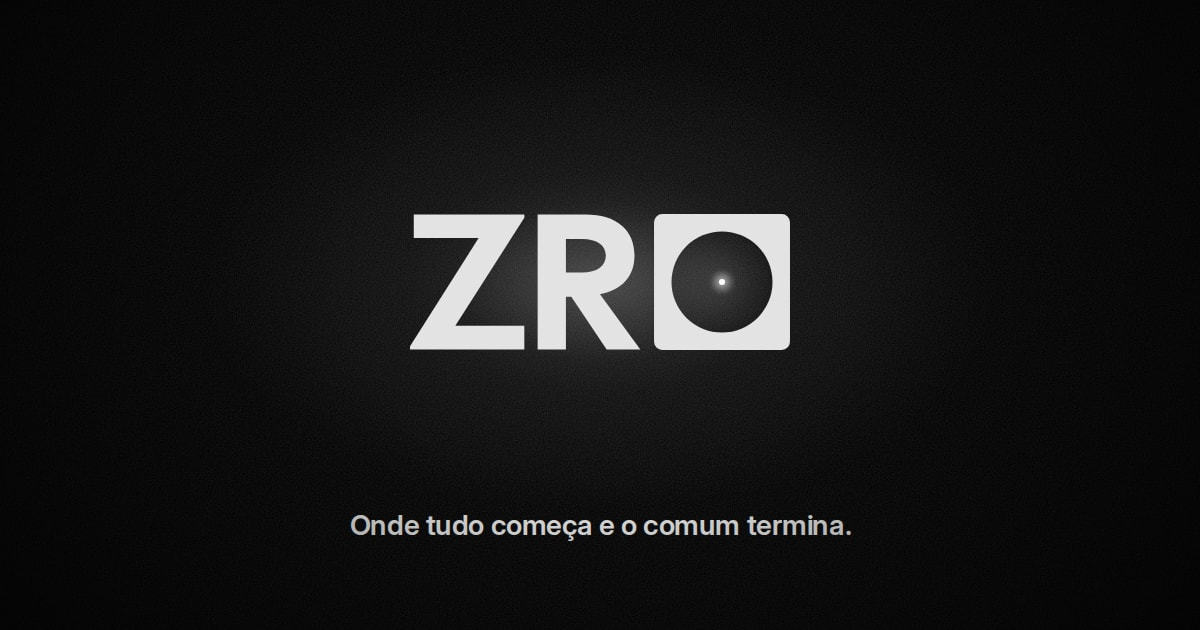
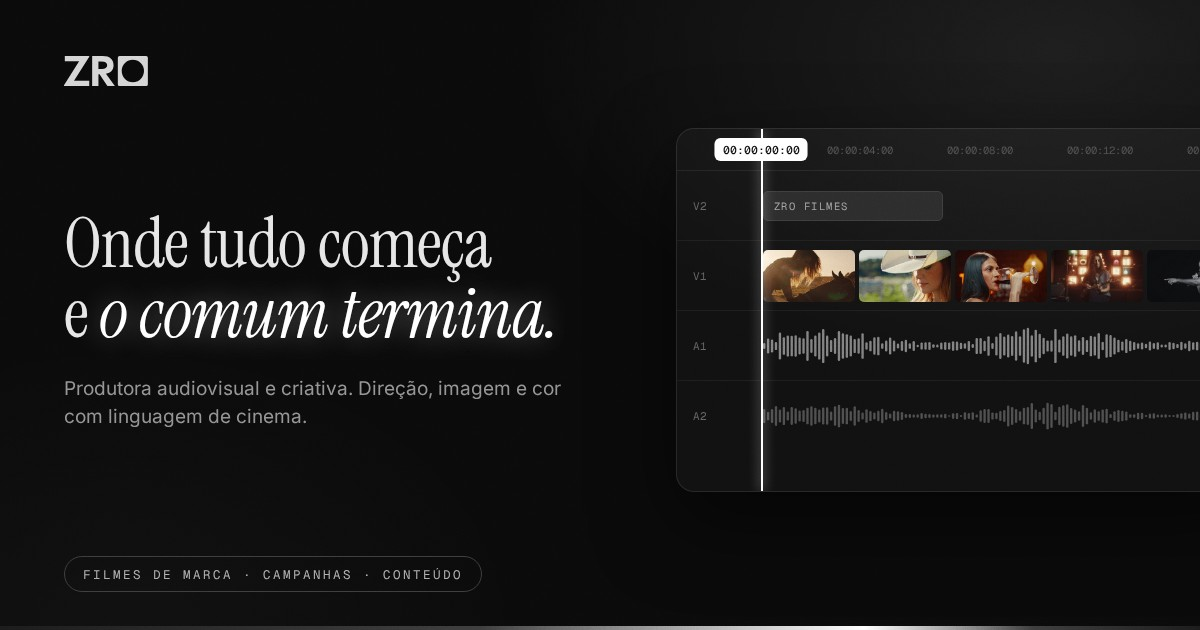
Imagens de compartilhamento: timeline no zero (ZRO) e painel de cor (Absolute)
- Site: a imagem do link vira a assinatura em serifa ao lado de uma linha do
  tempo de edição com frames reais da ZRO e a agulha em 00:00:00:00
- Absolute ZRO: imagem própria na identidade dela (Montserrat, preto e azul,
  anel), com "Do bruto ao absoluto.", um frame dividido entre bruto e
  absoluto, rodas de cor, waveform e a temperatura em Kelvin
- O link /absolute ganha título, descrição e nome próprios no cartão
  (antes herdava "ZRO Filmes" e a frase do site)
- Sem endereço do site e sem cidade nas imagens; textos alternativos novos

Claude-Session: https://claude.ai/code/session_01Kr6LwSCe6NP69VxRAVy4DF

diff --git a/src/app/(site)/absolute/page.tsx b/src/app/(site)/absolute/page.tsx
@@ -10,9 +10,18 @@ import { Reveal } from "@/components/site/reveal";
 import { FRAMES } from "@/lib/frames";
 import { cn } from "@/lib/utils";
 
+const SHARE = {
+  title: "Absolute ZRO · Do bruto ao absoluto.",
+  description: "Color grading e finalização para publicidade, cinema e conteúdo.",
+};
+
+// O link da Absolute tem cartão próprio (título, descrição e a imagem opengraph-image.jpg desta pasta):
+// sem isso, herdaria o "ZRO Filmes" do site.
 export const metadata: Metadata = {
   title: "Absolute ZRO",
   description: "Color grading e finalização para publicidade, cinema e conteúdo. Do bruto ao absoluto.",
+  openGraph: { type: "website", locale: "pt_BR", siteName: "Absolute ZRO", url: "/absolute", ...SHARE },
+  twitter: { card: "summary_large_image", ...SHARE },
 };
 
 /*
